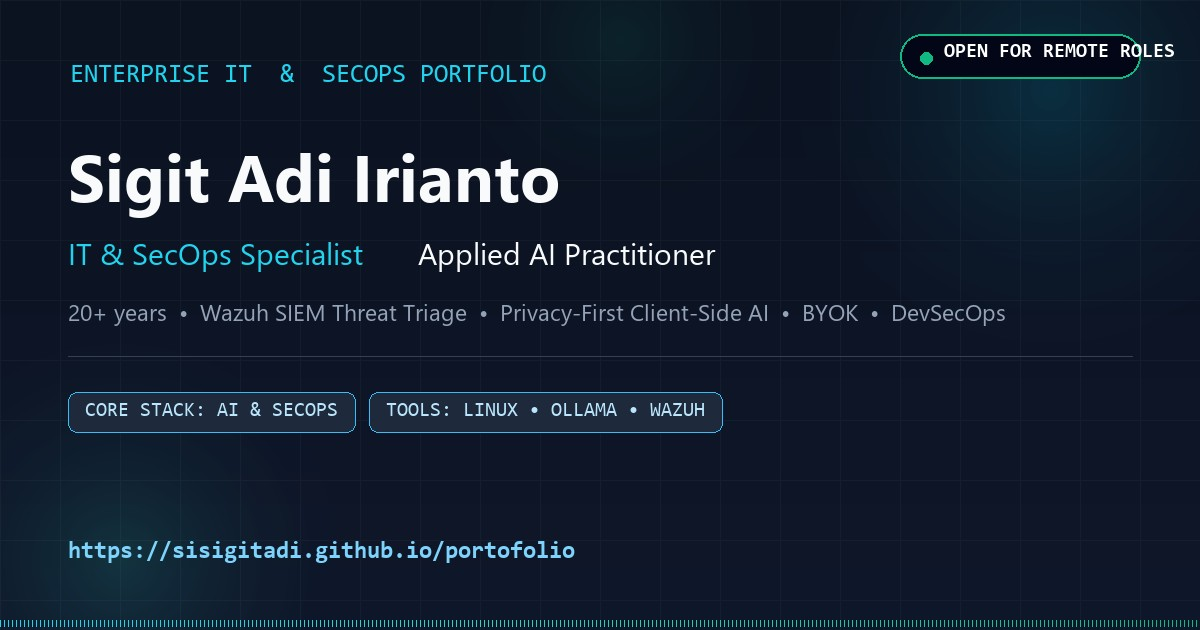
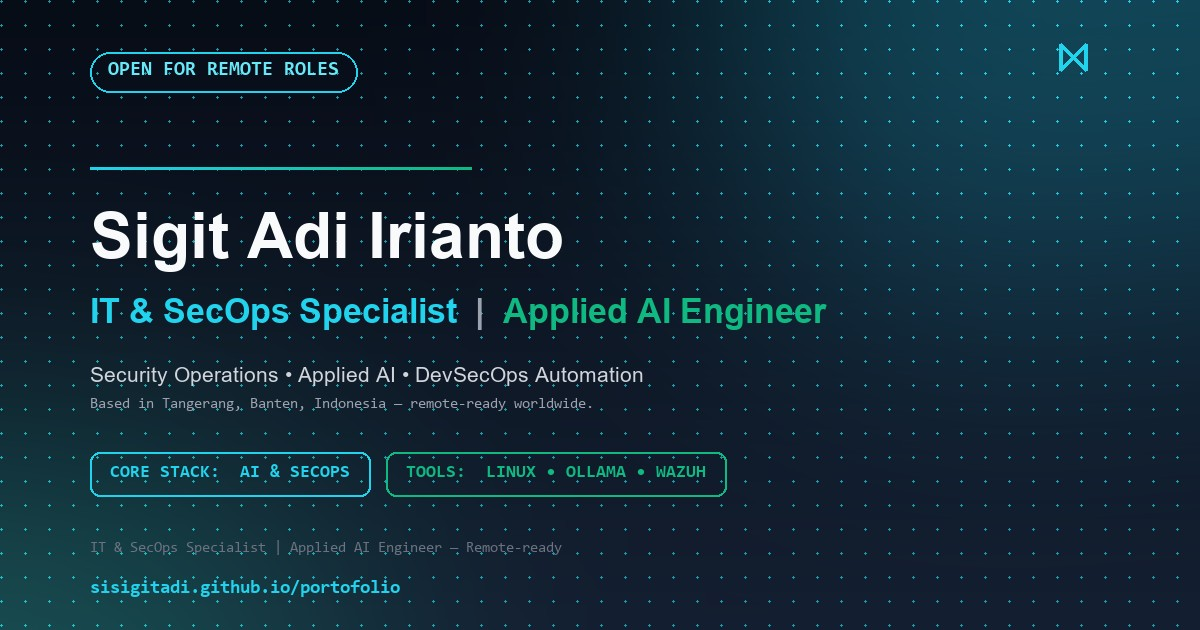
feat(og): regenerate og-preview.jpg with 'Applied AI Engineer' + bump cache-buster v2.1.0 (v2.5.8)

diff --git a/index.html b/index.html
@@ -32,8 +32,8 @@
     <!-- Schema.org Microdata & WhatsApp Thumbnail Fallback -->
     <meta itemprop="name" content="Sigit Adi Irianto | IT &amp; SecOps Specialist | Applied AI Engineer | Tangerang, Indonesia">
     <meta itemprop="description" content="Applied AI Engineer &amp; IT Security Operations Specialist specializing in practical AI integration, local privacy-first ML workflows, threat triage, and DevSecOps automations.">
-    <meta itemprop="image" content="https://sisigitadi.github.io/portofolio/og-preview.jpg?v=2.0.0">
-    <link rel="image_src" href="https://sisigitadi.github.io/portofolio/og-preview.jpg?v=2.0.0">
+    <meta itemprop="image" content="https://sisigitadi.github.io/portofolio/og-preview.jpg?v=2.1.0">
+    <link rel="image_src" href="https://sisigitadi.github.io/portofolio/og-preview.jpg?v=2.1.0">
 
     <!-- Open Graph / Social Media (LinkedIn, WhatsApp, Facebook, Telegram) Meta Tags -->
     <meta property="og:site_name" content="Sigit Adi Irianto Portfolio">
@@ -41,8 +41,8 @@
     <meta property="og:description" content="Remote IT SecOps &amp; Applied AI Engineer in Tangerang, Banten, Indonesia. SOC, Wazuh SIEM, DevSecOps &amp; AI. View portfolio.">
     <meta property="og:type" content="website">
     <meta property="og:url" content="https://sisigitadi.github.io/portofolio">
-    <meta property="og:image" content="https://sisigitadi.github.io/portofolio/og-preview.jpg?v=2.0.0">
-    <meta property="og:image:secure_url" content="https://sisigitadi.github.io/portofolio/og-preview.jpg?v=2.0.0">
+    <meta property="og:image" content="https://sisigitadi.github.io/portofolio/og-preview.jpg?v=2.1.0">
+    <meta property="og:image:secure_url" content="https://sisigitadi.github.io/portofolio/og-preview.jpg?v=2.1.0">
     <meta property="og:image:type" content="image/jpeg">
     <meta property="og:image:width" content="1200">
     <meta property="og:image:height" content="630">
@@ -54,7 +54,7 @@
     <meta name="twitter:url" content="https://sisigitadi.github.io/portofolio">
     <meta name="twitter:title" content="Sigit Adi Irianto | IT &amp; SecOps Specialist | Applied AI Engineer | Tangerang, Indonesia">
     <meta name="twitter:description" content="Remote IT SecOps &amp; Applied AI Engineer in Tangerang, Banten, Indonesia. SOC, Wazuh SIEM, DevSecOps &amp; AI. View portfolio.">
-    <meta name="twitter:image" content="https://sisigitadi.github.io/portofolio/og-preview.jpg?v=2.0.0">
+    <meta name="twitter:image" content="https://sisigitadi.github.io/portofolio/og-preview.jpg?v=2.1.0">
     <meta name="twitter:creator" content="@si_sigitadi">
 
     <!-- Schema.org JSON-LD Structured Data for Google Rich Snippets -->
@@ -65,7 +65,7 @@
       "name": "Sigit Adi Irianto",
       "jobTitle": "IT &amp; SecOps Specialist | Applied AI Engineer",
       "url": "https://sisigitadi.github.io/portofolio",
-      "image": "https://sisigitadi.github.io/portofolio/og-preview.jpg?v=2.0.0",
+      "image": "https://sisigitadi.github.io/portofolio/og-preview.jpg?v=2.1.0",
       "sameAs": [
         "https://github.com/sisigitadi",
         "https://www.linkedin.com/in/sigitadi/",
@@ -1012,7 +1012,7 @@
             try {
                 // Fixed SEO URLs for GitHub Pages deployment (sisigitadi.github.io/portofolio)
                 var currentOrigin = 'https://sisigitadi.github.io/portofolio';
-                var ogImageUrl = 'https://sisigitadi.github.io/portofolio/og-preview.jpg?v=2.0.0';
+                var ogImageUrl = 'https://sisigitadi.github.io/portofolio/og-preview.jpg?v=2.1.0';
 
                 // Update Canonical URL
                 var canonicalLink = document.querySelector('link[rel="canonical"]');

diff --git a/Changelog.md b/Changelog.md
@@ -6,6 +6,18 @@ The format is based on [Keep a Changelog](https://keepachamber.com/en/1.0.0/), a
 
 ---
 
+## [2.5.8] - 2026-08-11 — og-preview.jpg Regenerated ("Applied AI Engineer")
+
+### 🖼 Changed
+- **`og-preview.jpg` diregenerasi penuh (1200×630, 119 KB, progressive JPEG, quality 90)** — teks di dalamnya kini **"IT & SecOps Specialist | Applied AI Engineer"** (dua warna cyan/emerald, konsisten judul baru) menggantikan "Applied AI Practitioner". Elemen visual: badge **OPEN FOR REMOTE ROLES**, nama besar putih, tagline dua warna, sub deskripsi *"Security Operations • Applied AI • DevSecOps Automation"* + *"Based in Tangerang, Banten, Indonesia — remote-ready worldwide"*, chip **CORE STACK: AI & SECOPS** & **TOOLS: LINUX • OLLAMA • WAZUH**, URL footer, logo double-bracket — tema dark terminal dengan dot-grid + glow cyan/emerald konsisten situs.
+- **Cache-buster `?v=2.0.0` → `?v=2.1.0`** di 7 lokasi meta (itemprop image, link image_src, og:image, og:image:secure_url, twitter:image, JSON-LD `image`, script SEO dinamis `ogImageUrl`) — memaksa Facebook/WhatsApp/LinkedIn mengambil gambar baru (cache ketat per URL).
+
+### 🧪 Validasi
+- `file og-preview.jpg` → JPEG 1200×630 progressive · ukuran 119 KB (< 130 KB target) · verifikasi visual browser 5/5 (nama, tagline Engineer, badge REMOTE, tanpa crop, tampilan profesional).
+- `python audit.py` → 12 PASS | 0 FAIL | 0 WARN · pytest 20/20.
+
+---
+
 ## [2.5.7] - 2026-08-11 — Lokasi Lengkap "Tangerang, Banten, Indonesia"
 
 ### 🔄 Changed (jawaban atas pertanyaan owner: kenapa bukan "Tangerang, Banten, Indonesia")
